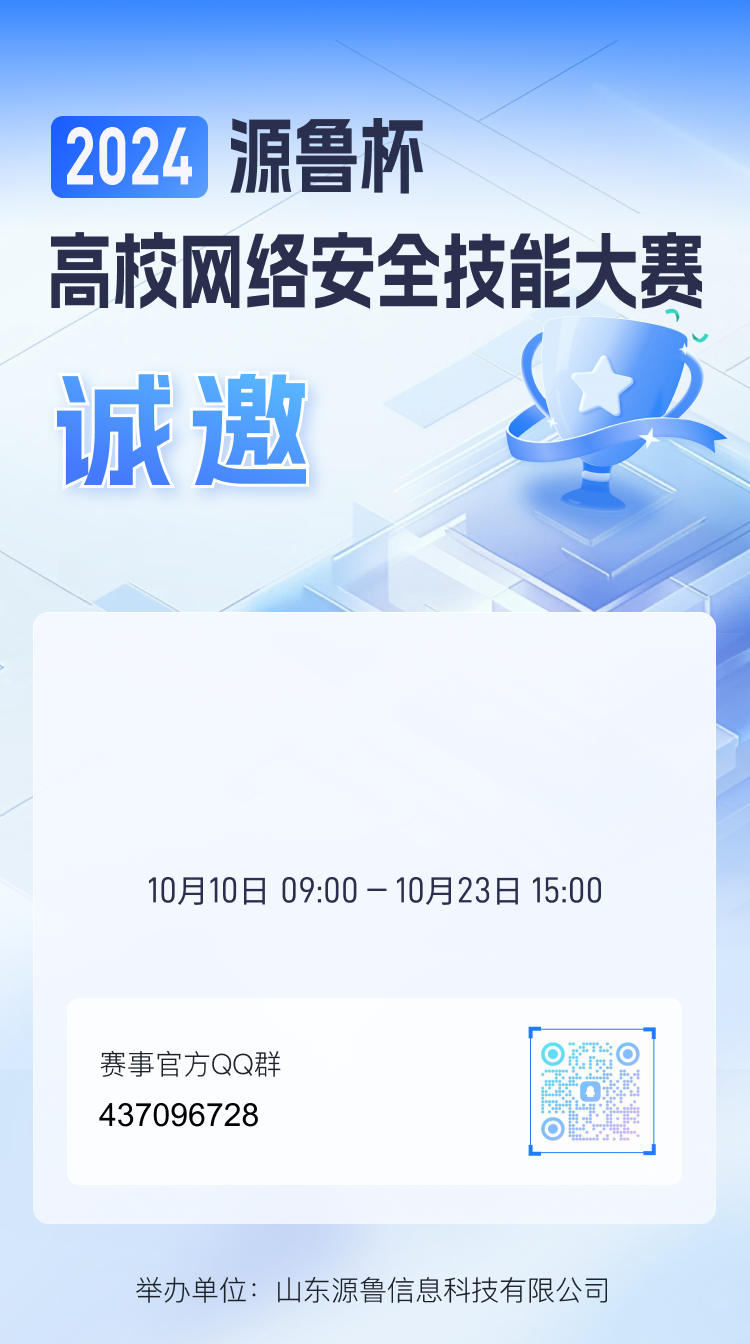
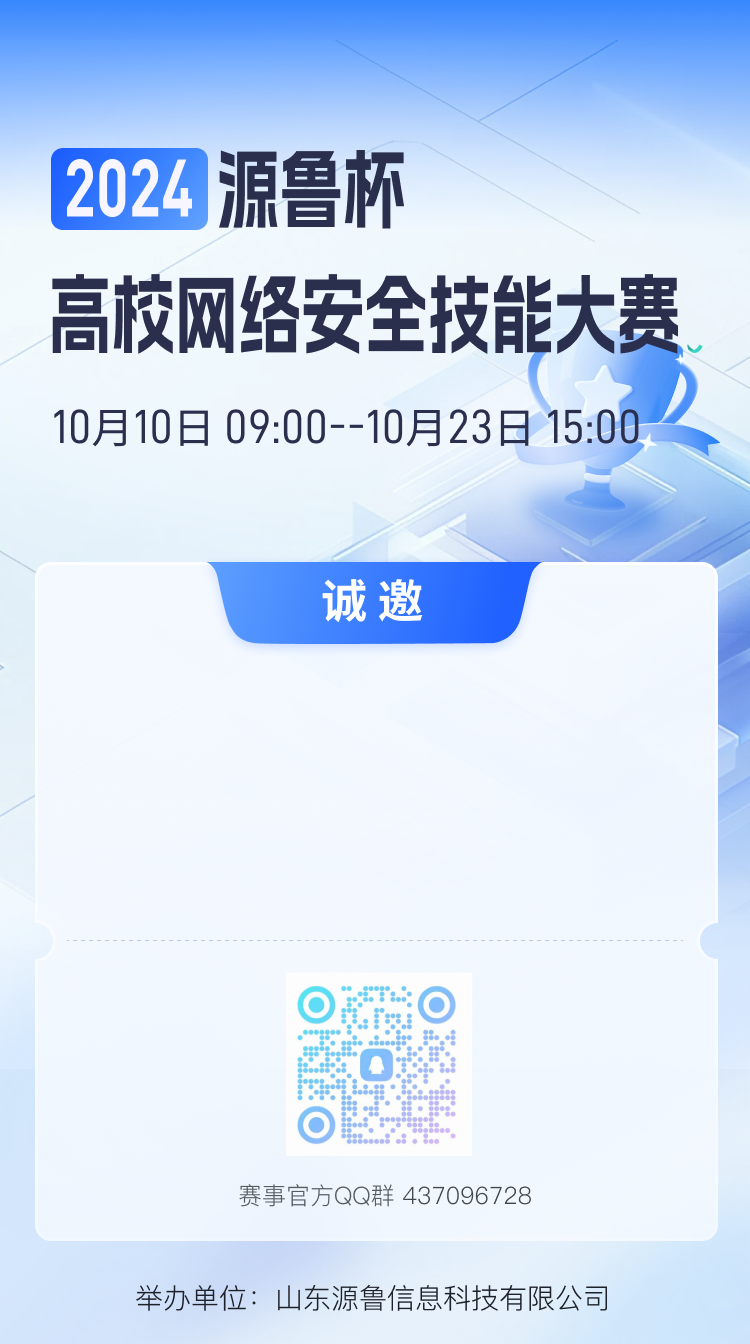
源鲁邀请函

diff --git a/main.py b/main.py
@@ -117,7 +117,7 @@ async def add_text_up_hand(text="W1ndys"):
 # 源鲁杯邀请函
 async def add_text_invitation(text="Yuanloo"):
     img_path = os.path.join(INPUT_DIR, "yuanloo.png")
-    box = (92, 655, 663, 810)
+    box = (135, 713, 626, 819)
     return await add_text_to_image(img_path, box, text, angle=0)
 
 
@@ -178,8 +178,8 @@ async def handle_ImageGenerate_group_message(websocket, msg):
                         f"[CQ:reply,id={message_id}]输入内容不合法，请重新输入",
                     )
 
-        elif raw_message.startswith("YL邀请函"):
-            match = re.search(r"YL邀请函(.*)", raw_message)
+        elif raw_message.startswith("邀请函"):
+            match = re.search(r"邀请函(.*)", raw_message)
             if match:
                 if len(match.group(1)) <= 15 and len(match.group(1)) > 0:
                     del_message_id = await send_group_msg_with_reply(
